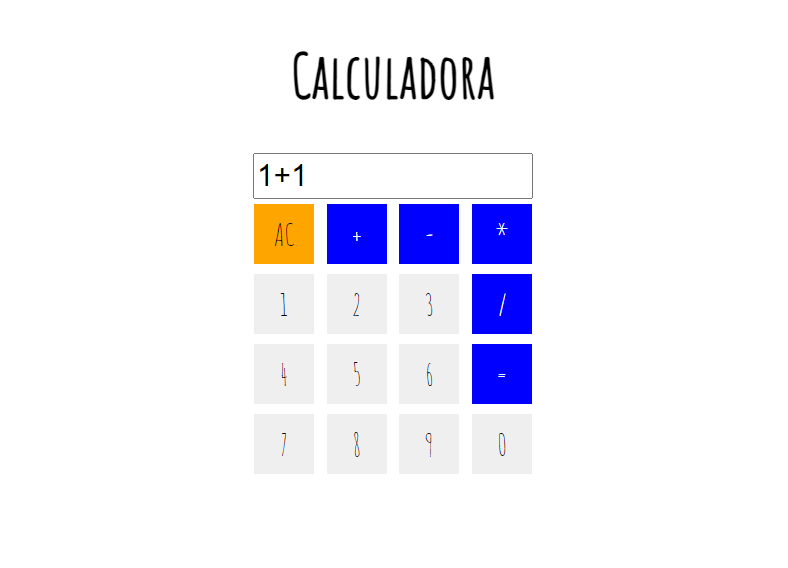
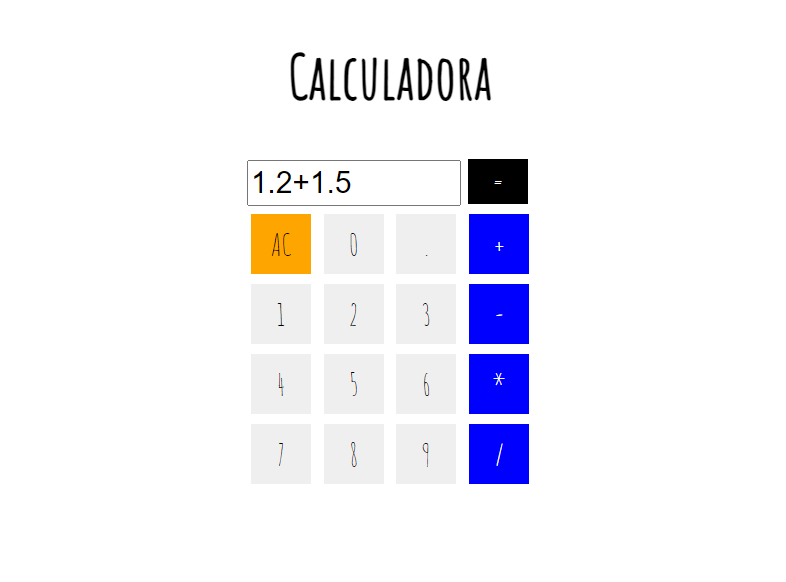
Updated em 05-05-22

diff --git a/index.html b/index.html
@@ -11,31 +11,37 @@
     <h1>Calculadora</h1>
     <div>
         <input type="text" id="result"/>
+        <input type="button" value="=" id="element-result" onclick="solve()"/>
     </div>
     <div id="calculator__wrapper">
         <div class="calculator-numbers">
             <input type="button" value="AC" id="element" onclick="cls()"/>
+            <input type="button" value="0" id="number" onclick="display('0')"/>
+            <input type="button" value="." id="number" onclick="display('.')"/>
             <input type="button" value="+" id="element-action" onclick="display('+')"/>
-            <input type="button" value="-" id="element-action" onclick="display('-')"/>
-            <input type="button" value="*" id="element-action" onclick="display('*')"/>
         </div>
         <div class="calculator-numbers">
+            
             <input type="button" value="1" id="number" onclick="display('1')"/>
             <input type="button" value="2" id="number" onclick="display('2')"/>
             <input type="button" value="3" id="number" onclick="display('3')"/>
-            <input type="button" value="/" id="element-action" onclick="display('/')"/>
+            <input type="button" value="-" id="element-action" onclick="display('-')"/>
         </div>
         <div class="calculator-numbers">
             <input type="button" value="4" id="number" onclick="display('4')"/>
             <input type="button" value="5" id="number" onclick="display('5')"/>
             <input type="button" value="6" id="number" onclick="display('6')"/>
-            <input type="button" value="=" id="element-action" onclick="solve()"/>
+            <input type="button" value="*" id="element-action" onclick="display('*')"/>
         </div>
         <div class="calculator-numbers">
             <input type="button" value="7" id="number" onclick="display('7')"/>
             <input type="button" value="8" id="number" onclick="display('8')"/>
             <input type="button" value="9" id="number" onclick="display('9')"/>
-            <input type="button" value="0" id="number" onclick="display('0')"/>
+            <input type="button" value="/" id="element-action" onclick="display('/')"/>
+        </div>
+        <div class="calculator-numbers">
+            
+            
         </div>
     </div>
 

diff --git a/assets/css/style.css b/assets/css/style.css
@@ -17,7 +17,7 @@ body h1 {
 }
 
 #result {
-    width: 73%;
+    width: 206px;
     height: 40px;
     font-size: 30px;
 }
@@ -50,6 +50,18 @@ body h1 {
     font-family: 'amatic sc', sans-serif;
     margin: 5px;
     background-color: blue;
+    color: white;
+    border: none;
+    cursor: pointer;
+}
+
+#element-result{
+    width: 60px;
+    height: 45px;
+    font-size: 30px;
+    font-family: 'amatic sc', sans-serif;
+    margin: 5px;
+    background-color: black;
     color: white;
     border: none;
     cursor: pointer;
